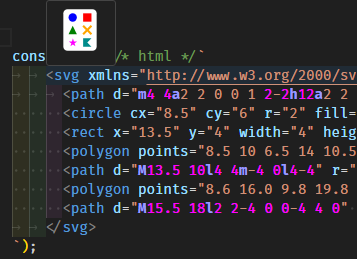
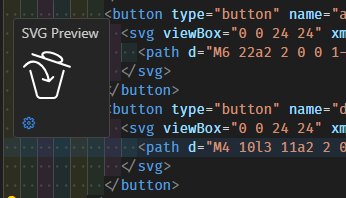
docs: CHANGELOG.mdを更新

diff --git a/README.md b/README.md
@@ -75,3 +75,7 @@ This extension contributes the following settings:
   svg内でcurrentColorが指定された箇所を描画する色を指定します。
 
   省略した場合、ダークモードのときには白、ライトモードのときには黒を使用します。
+
+Click on the ⚙ icon below the preview to open these settings screens.
+
+プレビューの下にある⚙のアイコンをクリックするとこれらの設定画面が開きます。

diff --git a/CHANGELOG.md b/CHANGELOG.md
@@ -2,6 +2,12 @@
 
 ## Release
 
+- `0.0.5`
+
+  - Add `SVG Preview`/`Data URL Preview`` as title in preview
+
+  > - プレビューにタイトルとして`SVG Preview`/`Data URL Preview`を追加
+
 - `0.0.4`
 
   - Fixed to adjust preview image width as well as height
